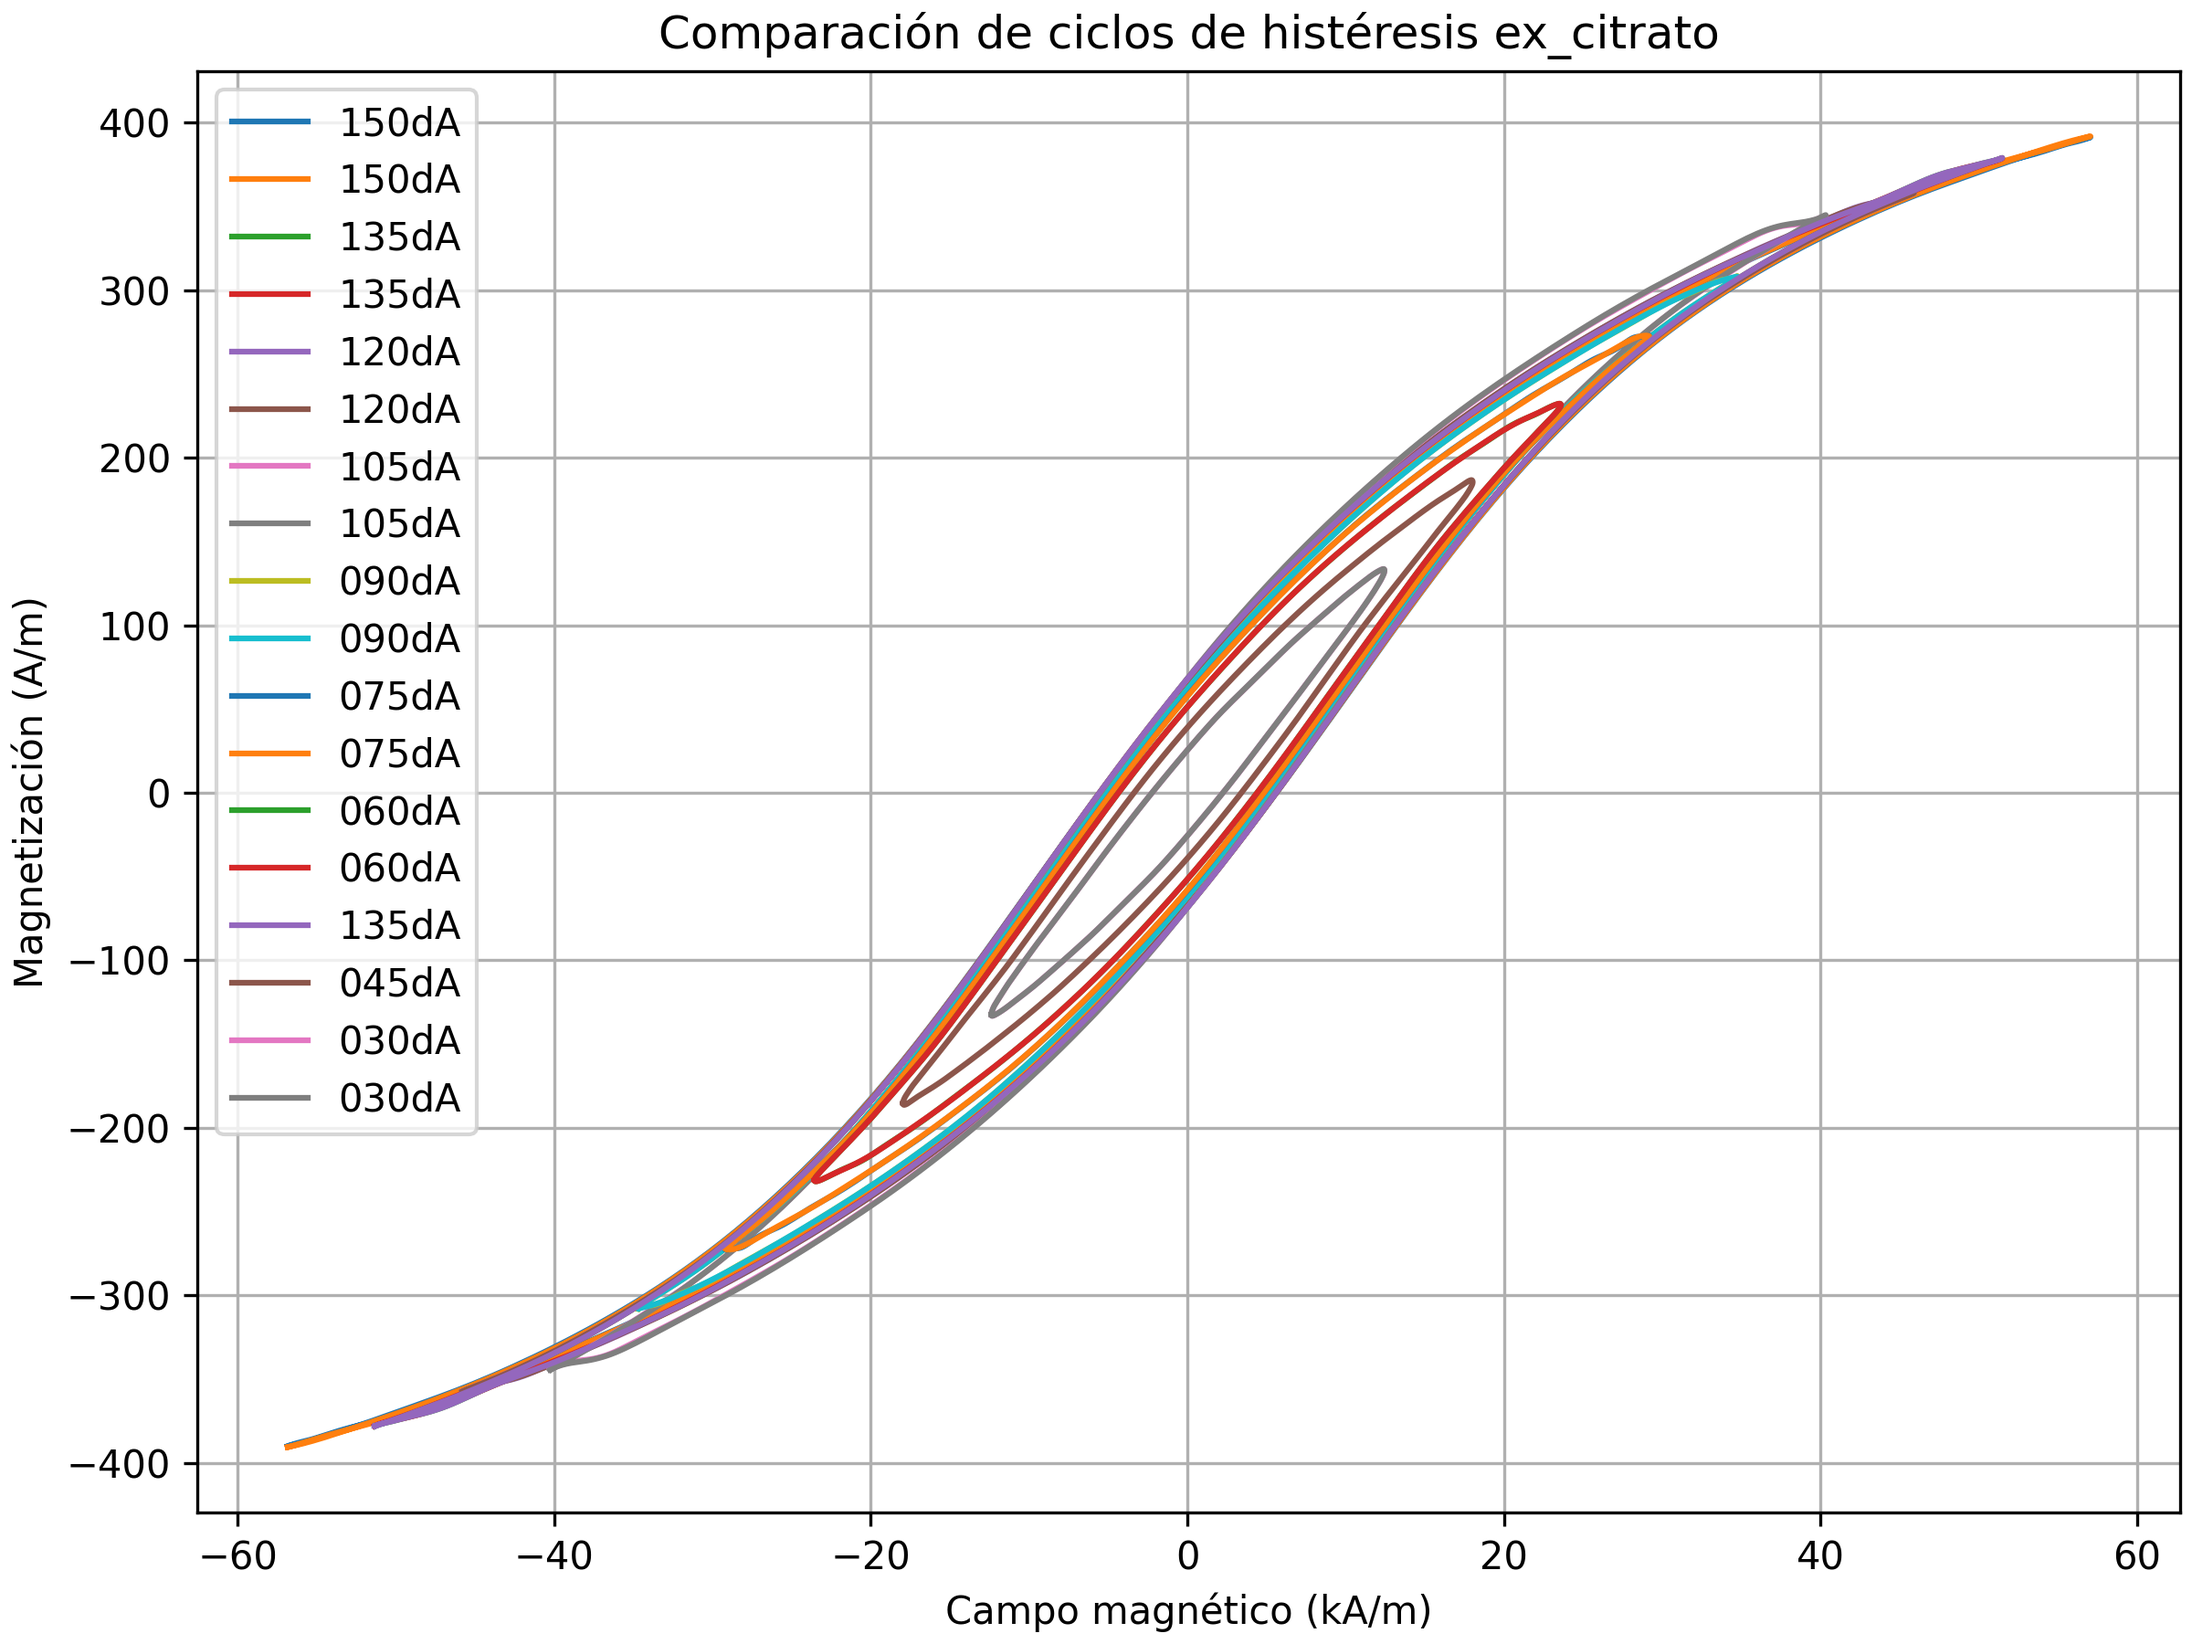
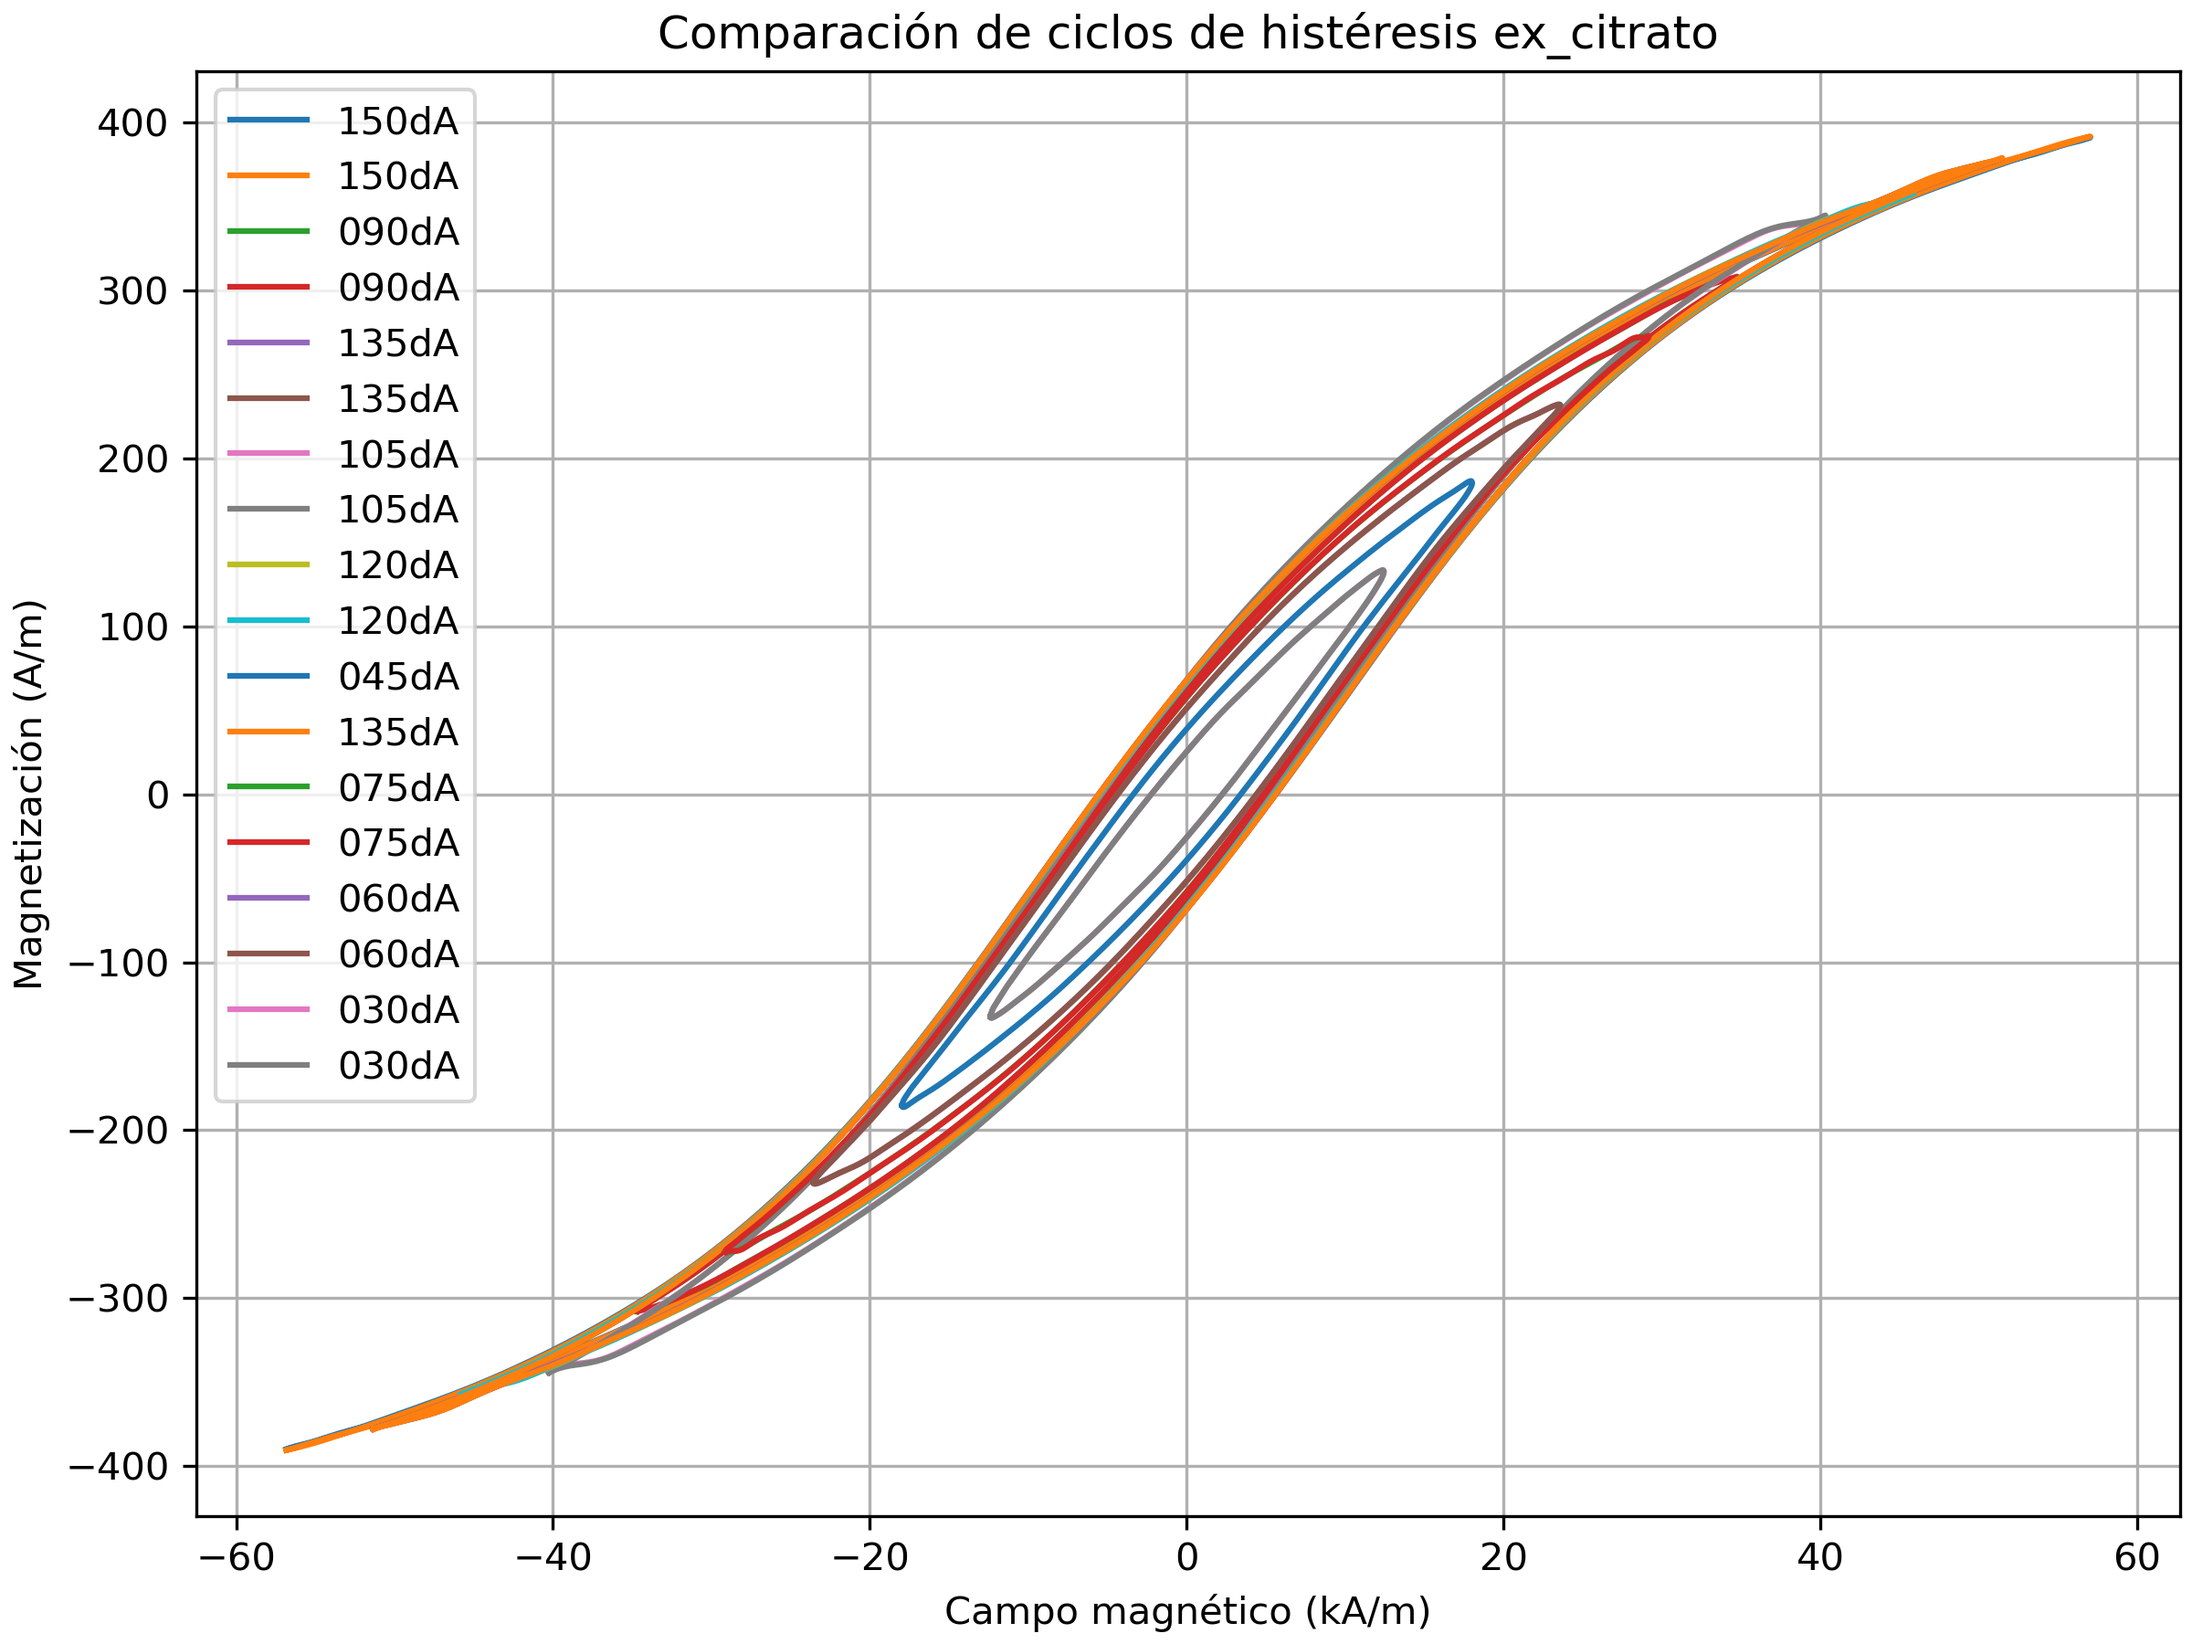
Ciclos y SAR listos para comparar

diff --git a/comparativa_tancredi.py b/comparativa_tancredi.py
@@ -1,4 +1,5 @@
-#%% Comparador ciclos y resultados de NE@citrato (NE250331C)
+#Comparador ciclos y resultados de NE@citrato (NE250331C)
+#%% Librerias
 import matplotlib.pyplot as plt
 import numpy as np
 import pandas as pd
@@ -145,13 +146,10 @@ def lector_ciclos(filepath):
     M_Am  = pd.Series(data['Magnetizacion_(A/m)']).to_numpy(dtype=float)#A/m
 
     return t,H_Vs,M_Vs,H_kAm,M_Am,metadata
-#%%
+#%% Ploteo todos los ciclos 
 plot_ciclos_promedio('ex_citrato')
-
 plot_ciclos_promedio('ex_hierro')
-
 plot_ciclos_promedio('in_situ')
-#%%
 #%% Comparo a mismos idc/campo  
 idcs = [150,135,120,105,90,75,60,45,30]
 for idc in idcs:
@@ -162,28 +160,122 @@ for idc in idcs:
     _,_,_,H_insitu,M_insitu,meta_insitu = lector_ciclos(ciclos[2])
     H_max = (idc/10*float(meta_citrato['pendiente_HvsI '])+float(meta_citrato['ordenada_HvsI ']))/1000
     frec = meta_citrato['frecuencia']/1000
-    titulo=f'{H_max:.1f} kA/m - {frec:.0f} kHz'
+    titulo=f'{H_max:.1f} kA/m - {frec:.1f} kHz'
 
 
     fig, ax = plt.subplots(nrows=1,figsize=(6,5),constrained_layout=True)
-    ax.plot(H_citrato/1000,M_citrato,label='ex citrato')
-    ax.plot(H_hierro/1000,M_hierro,label='ex hierro')
-    ax.plot(H_insitu/1000,M_insitu,label='ex in situ')
-
-        
-    # for c in ciclos_PEM:
-    #     _,_,_,H_kAm,M_Am,_ = lector_ciclos(c)
-    #     ax.plot(H_kAm,M_Am,c='tab:red',label='PEM')
-
+    ax.plot(H_insitu/1000,M_insitu,c='tab:red',label='in situ')
+    ax.plot(H_citrato/1000,M_citrato,c='tab:green',label='ex citrato')
+    ax.plot(H_hierro/1000,M_hierro,c='tab:blue',label='ex hierro')
     ax.grid()
     ax.set_xlabel('H (kA/m)')
     ax.set_ylabel('M (A/m)')
     ax.set_title(titulo,fontsize=12)
-    ax.legend(ncol=1)
+    ax.legend(title='Ferrogel',ncol=1)
     # ax.set_xlim(0,60e3)
     # ax.set_ylim(0,)
-    plt.savefig('comparativa_HM_tancredi'+str(idc)+'.png',dpi=400)
+    plt.savefig('comparativa_HM_tancredi_'+str(idc)+'.png',dpi=400)
     plt.show()
 
+#%% ploteo los mismos que el paper 
+idcs_paper = [30,105,150]
+campos = []
+fig, ax = plt.subplots(nrows=1,ncols=3,figsize=(12,4),constrained_layout=True,sharex=True,sharey=True)
 
-#%%
+for i,idc in enumerate(idcs_paper):
+    ciclos_paper = glob(os.path.join('**/*2025*','*'+str(idc)+'dA'+'*ciclo_promedio*'),recursive=True)
+
+    _,_,_,H_citrato,M_citrato,meta_citrato = lector_ciclos(ciclos_paper[0])
+    _,_,_,H_hierro,M_hierro,meta_hierro = lector_ciclos(ciclos_paper[1])
+    _,_,_,H_insitu,M_insitu,meta_insitu = lector_ciclos(ciclos_paper[2])
+    H_max = (idc/10*float(meta_citrato['pendiente_HvsI '])+float(meta_citrato['ordenada_HvsI ']))/1000
+    campos.append(round(H_max,0))
+    frec = meta_citrato['frecuencia']/1000
+    titulo=f'{H_max:.1f} kA/m - {frec:.1f} kHz'
+
+    ax[i].plot(H_insitu/1000,M_insitu,c='tab:red',label='in situ')
+    ax[i].plot(H_citrato/1000,M_citrato,c='tab:green',label='ex citrato')
+    ax[i].plot(H_hierro/1000,M_hierro,c='tab:blue',label='ex hierro')
+
+    
+# for c in ciclos_PEM:
+#     _,_,_,H_kAm,M_Am,_ = lector_ciclos(c)
+#     ax.plot(H_kAm,M_Am,c='tab:red',label='PEM')
+    ax[i].grid()
+    ax[i].set_xlabel('H (kA/m)')
+    ax[i].set_title(titulo,fontsize=12)
+    ax[i].legend(title='Ferrogel',ncol=1,loc='upper left')
+    # ax.set_xlim(0,60e3)
+    # ax.set_ylim(0,)
+ax[0].set_ylabel('M (A/m)')
+plt.savefig('comparativa_HM_tancredi_030_105_150.png',dpi=400)
+plt.show()
+
+#%% SAR
+res_150=glob(os.path.join('**/*2025*','*150*'+'*resultados*'),recursive=True)
+res_105=glob(os.path.join('**/*2025*','*105*'+'*resultados*'),recursive=True)
+res_030=glob(os.path.join('**/*2025*','*030*'+'*resultados*'),recursive=True)
+res_150.sort()
+res_105.sort()
+res_030.sort()
+
+meta_150_exc, _,_,_,_,_,_,_,_,_,_,_,SAR_150_exc,_,_=lector_resultados(res_150[0])
+meta_150_exh, _,_,_,_,_,_,_,_,_,_,_,SAR_150_exh,_,_=lector_resultados(res_150[1])
+meta_150_ins, _,_,_,_,_,_,_,_,_,_,_,SAR_150_ins,_,_=lector_resultados(res_150[2])
+
+meta_105_exc, _,_,_,_,_,_,_,_,_,_,_,SAR_105_exc,_,_=lector_resultados(res_105[0])
+meta_105_exh, _,_,_,_,_,_,_,_,_,_,_,SAR_105_exh,_,_=lector_resultados(res_105[1])
+meta_105_ins, _,_,_,_,_,_,_,_,_,_,_,SAR_105_ins,_,_=lector_resultados(res_105[2])
+
+meta_030_exc, _,_,_,_,_,_,_,_,_,_,_,SAR_030_exc,_,_=lector_resultados(res_030[0])
+meta_030_exh, _,_,_,_,_,_,_,_,_,_,_,SAR_030_exh,_,_=lector_resultados(res_030[1])
+meta_030_ins, _,_,_,_,_,_,_,_,_,_,_,SAR_030_ins,_,_=lector_resultados(res_030[2])
+
+sar_150_exc=ufloat(np.mean(SAR_150_exc),np.std(SAR_150_exc))
+sar_150_exh=ufloat(np.mean(SAR_150_exh),np.std(SAR_150_exh))
+sar_150_ins=ufloat(np.mean(SAR_150_ins),np.std(SAR_150_ins))
+
+sar_105_exc=ufloat(np.mean(SAR_105_exc),np.std(SAR_105_exc))
+sar_105_exh=ufloat(np.mean(SAR_105_exh),np.std(SAR_105_exh))
+sar_105_ins=ufloat(np.mean(SAR_105_ins),np.std(SAR_105_ins))
+
+sar_030_exc=ufloat(np.mean(SAR_030_exc),np.std(SAR_030_exc))
+sar_030_exh=ufloat(np.mean(SAR_030_exh),np.std(SAR_030_exh))
+sar_030_ins=ufloat(np.mean(SAR_030_ins),np.std(SAR_030_ins))
+
+# %%
+
+# Configuración del gráfico
+x = [1/3,2/3,1]  # Posiciones de las barras
+width = 0.05  # Ancho de las barras
+delta= 0.051
+fig2, ax = plt.subplots(nrows=1,figsize=(6,5),constrained_layout=True,sharex=True)
+
+bar11 = ax.bar(x[0]-delta,sar_030_ins.n, width, yerr=sar_030_ins.s, capsize=7, color='tab:red', label='In situ')
+bar13 = ax.bar(x[0],sar_030_exc.n, width, yerr=sar_030_exc.s, capsize=7, color='tab:green', label='Ex citrato')
+bar13 = ax.bar(x[0]+delta,sar_030_exh.n, width, yerr=sar_030_exh.s, capsize=7, color='tab:blue', label='Ex hierro')
+
+bar21 = ax.bar(x[1]-delta,sar_105_ins.n, width, yerr=sar_105_ins.s, capsize=7, color='tab:red')
+bar23 = ax.bar(x[1],sar_105_exc.n, width, yerr=sar_105_exc.s, capsize=7, color='tab:green')
+bar23 = ax.bar(x[1]+delta,sar_105_exh.n, width, yerr=sar_105_exh.s, capsize=7, color='tab:blue')
+
+bar31 = ax.bar(x[2]-delta,sar_150_ins.n, width, yerr=sar_150_ins.s, capsize=7, color='tab:red')
+bar33 = ax.bar(x[2],sar_150_exc.n, width, yerr=sar_150_exc.s, capsize=7, color='tab:green')
+bar33 = ax.bar(x[2]+delta,sar_150_exh.n, width, yerr=sar_150_exh.s, capsize=7, color='tab:blue')
+
+ax.set_xticks(x)
+ax.grid(axis='y', linestyle='--', alpha=0.7)
+ax.set_xticklabels(campos)
+ax.set_xlabel('H (kA/m)')
+ax.legend(ncol=1,title='Ferrogel')
+ax.set_ylabel('SAR (W/g)')
+
+
+# ax1.set_ylabel('Hc (kA/m)', fontsize=12)
+# ax1.set_title('Coercitivo vs Frecuencia',loc='left', fontsize=13)
+# ax2.set_title('Remanencia vs Frecuencia',loc='left', fontsize=13)
+# ax2.set_xlabel('f (kHz)', fontsize=12)
+plt.suptitle('SAR - 268 kHz')
+plt.savefig('comparativa_HM_tancredi_030_105_150.png',dpi=400)
+plt.show()
+# %%
